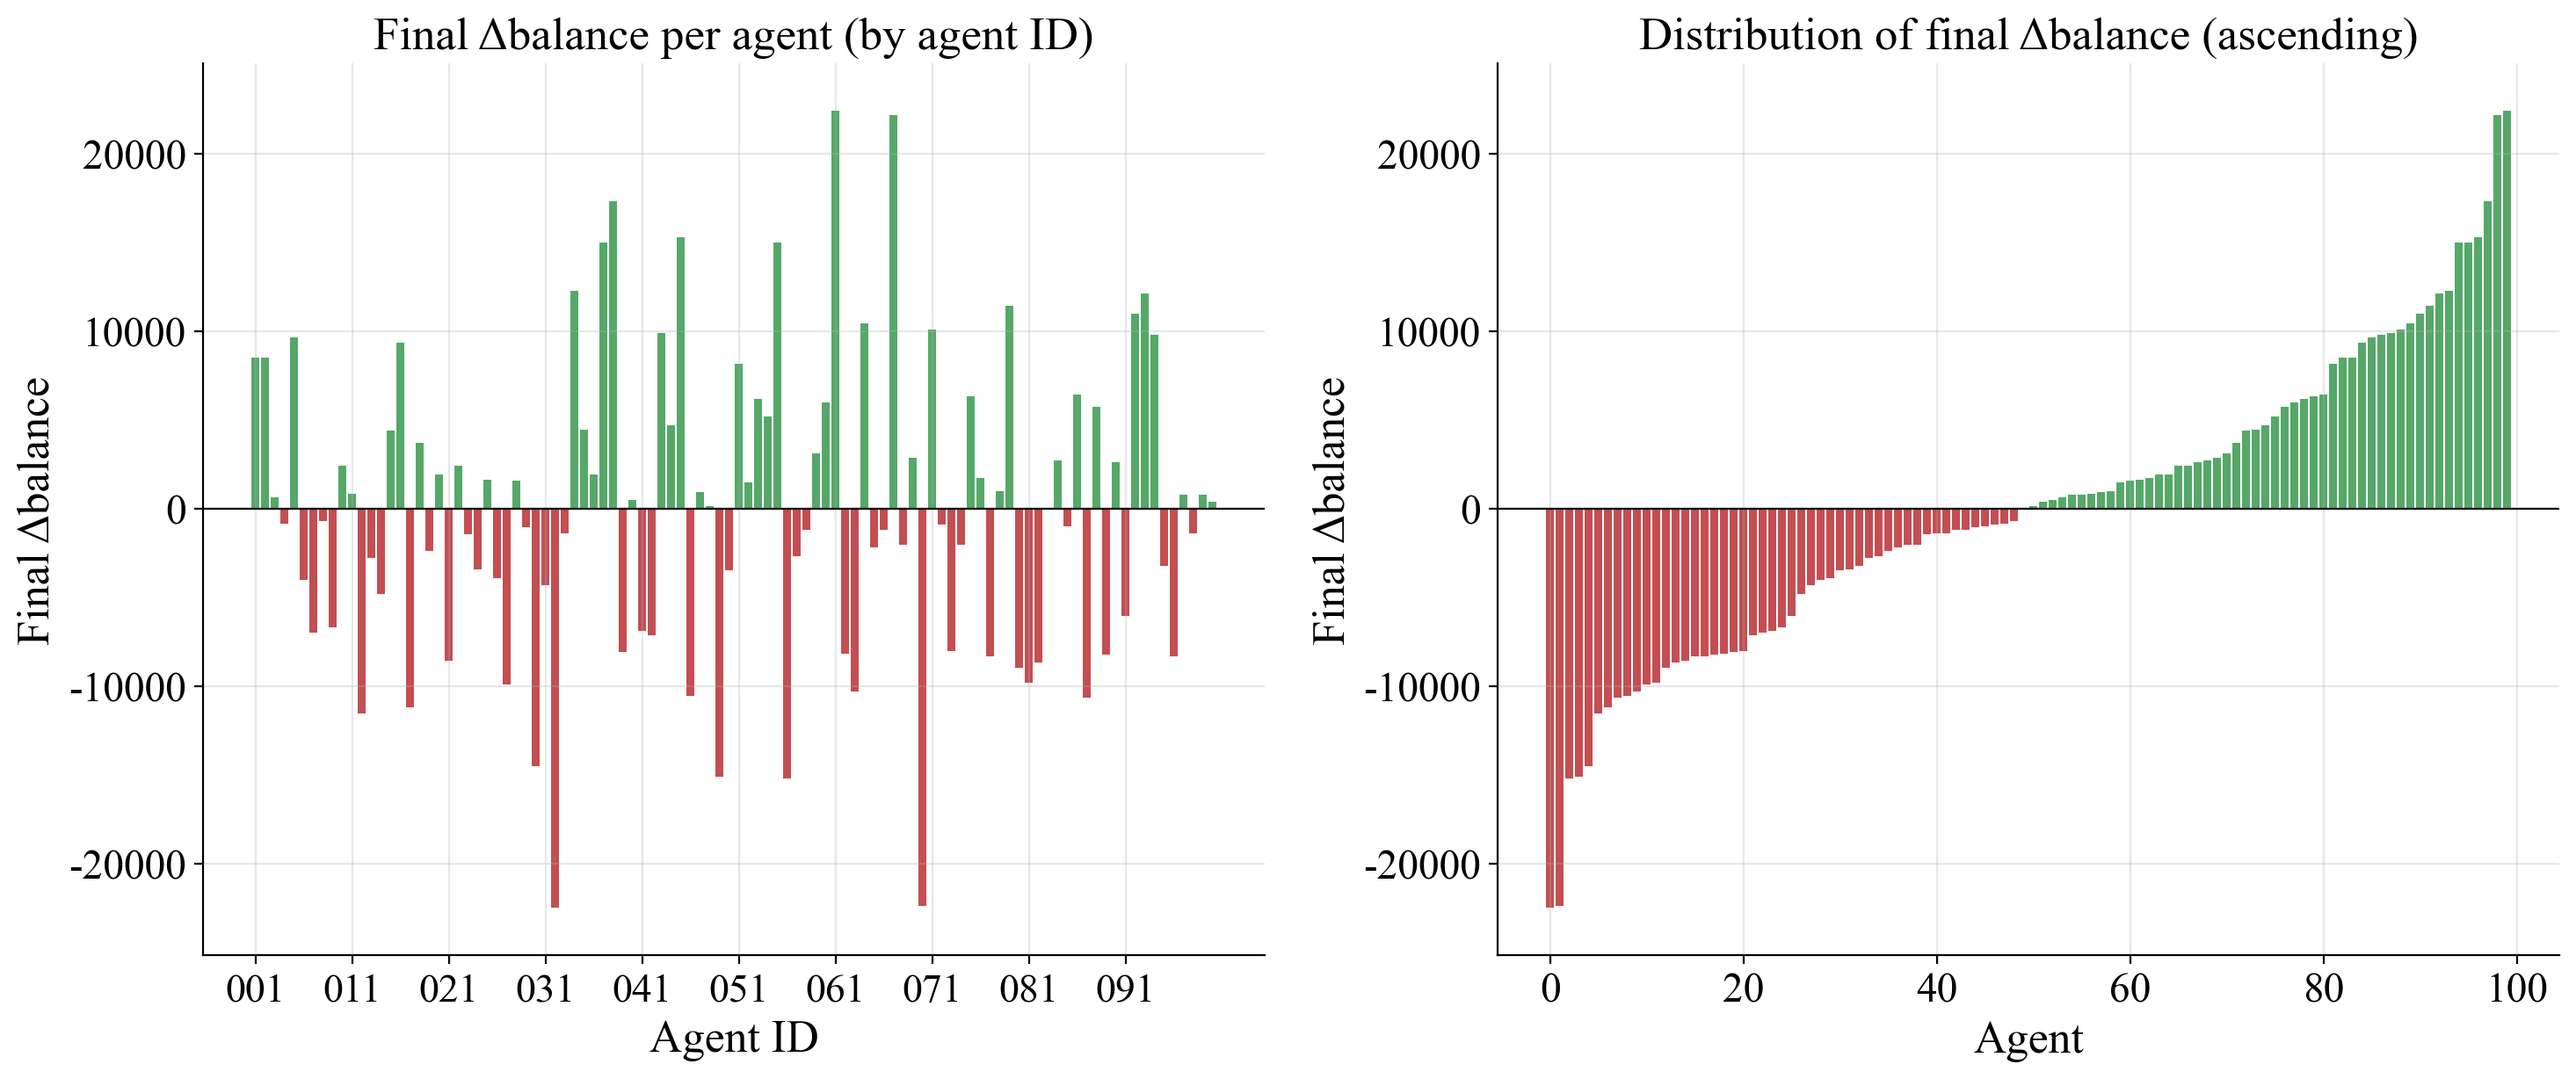
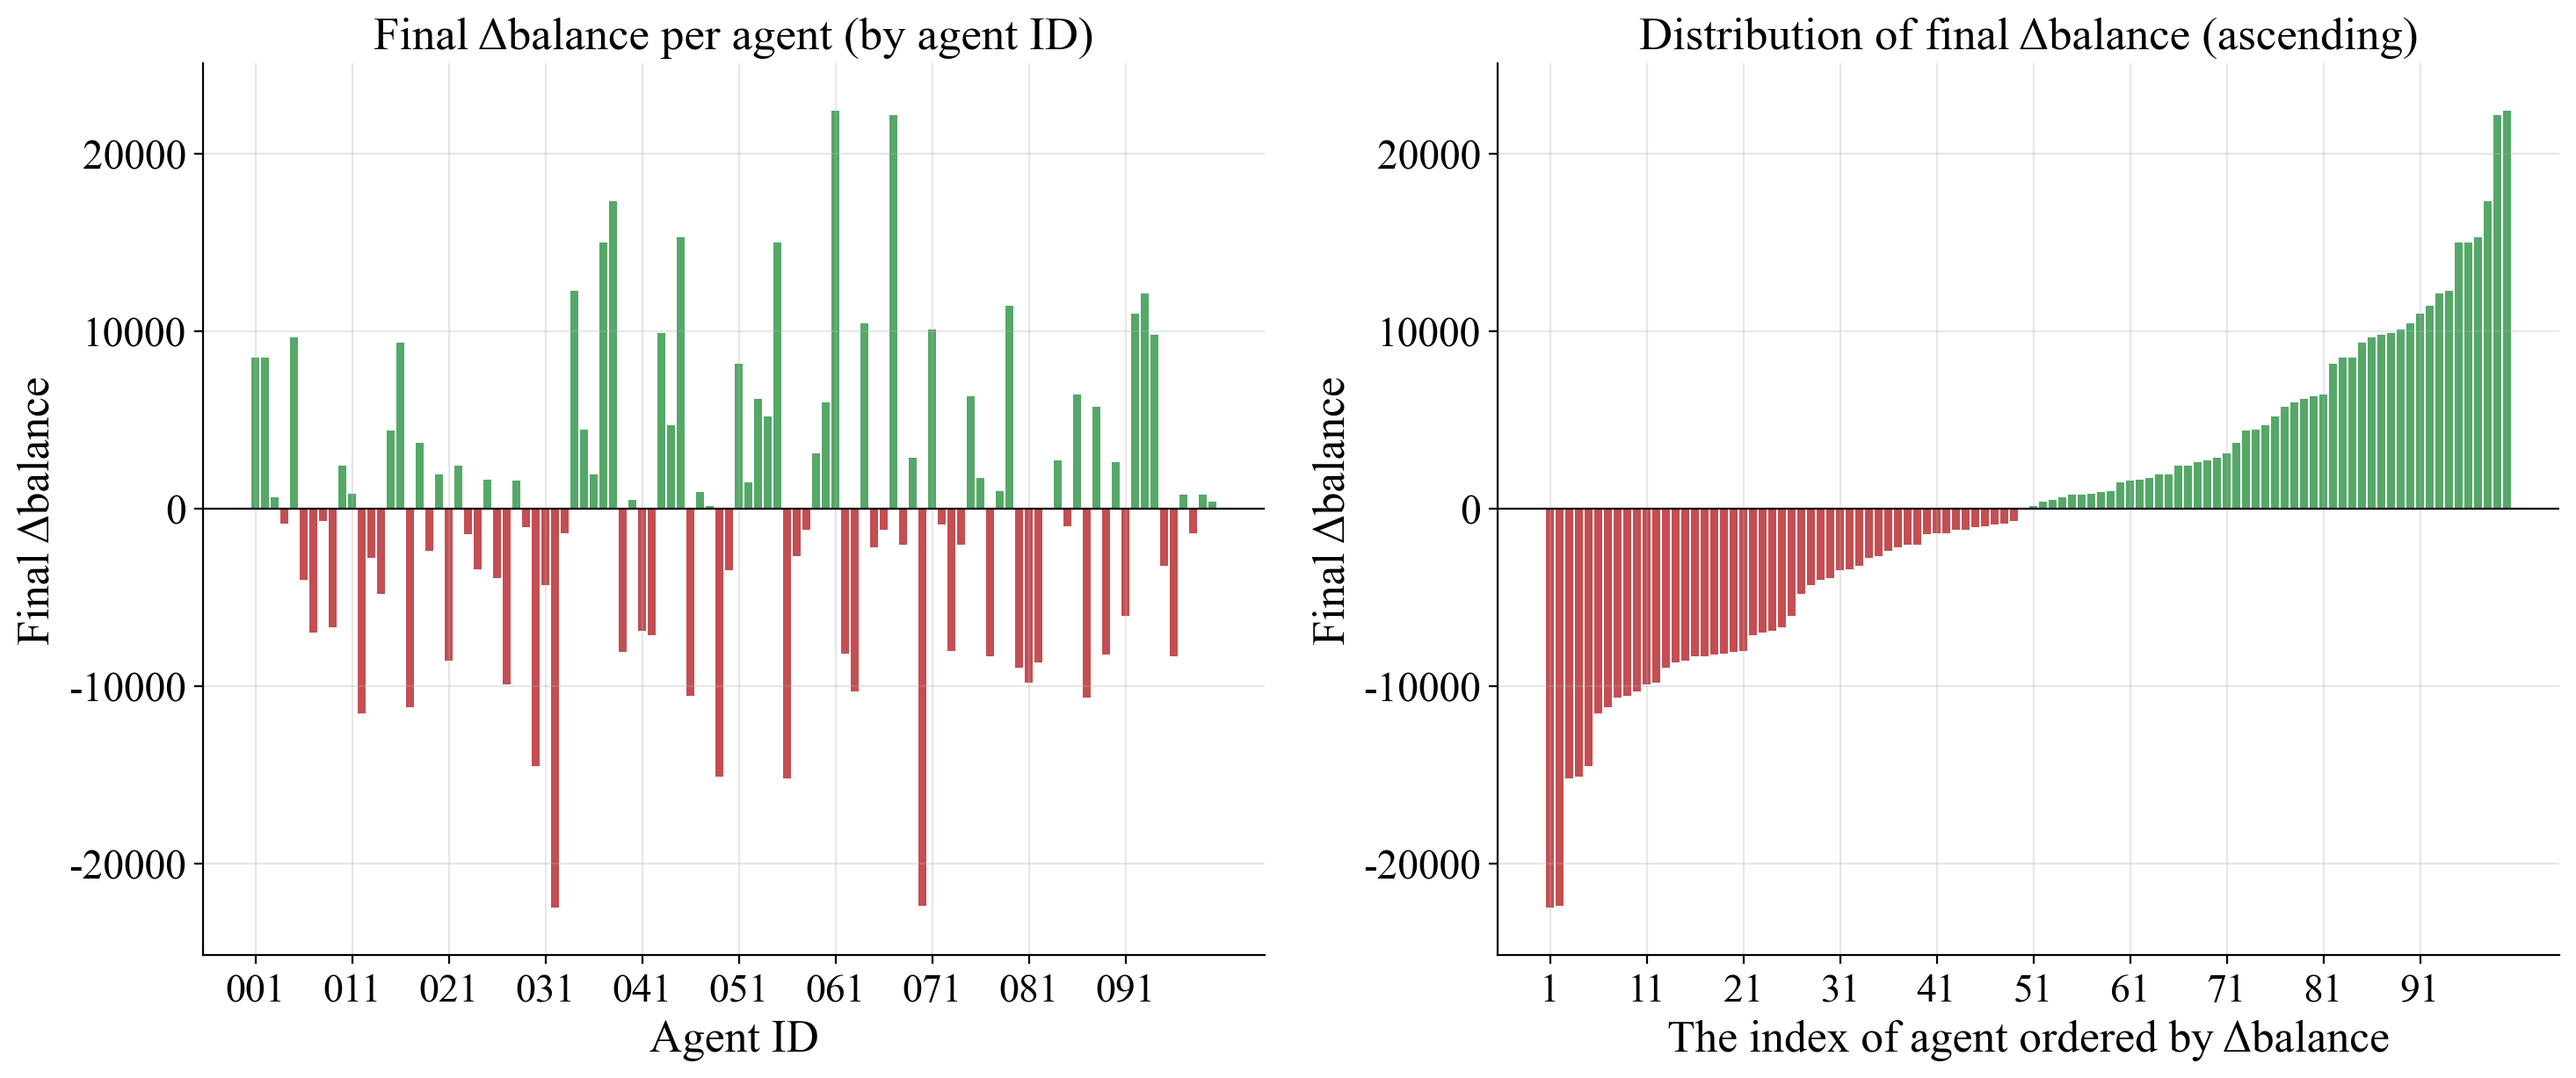
feat: polish figure wording and refresh README snapshots
- fig1: right panel x label 'The index of agent ordered by Δbalance',
  ticks 1..91 matching the left panel
- fig2: title 'Agent balance changes over the global transaction index'
- fig3: title 'Δbalance aligned by normalized transaction processing
  progress', x label 'The progress of transaction processing'
- fig4: drop block-boundary dashed lines/stars and the title note;
  in-figure title 'the change of balance'
- gallery: fig4 heading 'Agent 余额变化的组图 / Grouped Agent Balance
  Changes', fig3 heading aligned; lightbox-friendly captions
- refresh example PNG snapshots in docs/figures/pngs and sync README

diff --git a/figs/python_code/plot_agent_balance.py b/figs/python_code/plot_agent_balance.py
@@ -100,12 +100,6 @@ def load_agent(path: Path) -> pd.DataFrame:
     return df
 
 
-def block_boundary_idx(df: pd.DataFrame) -> int:
-    """排序后首个(最低)区块的交易数量, 即第一区块→后续区块的分界下标。"""
-    first = int(df["block_height"].iloc[0])
-    return int((df["block_height"] == first).sum())
-
-
 def main():
     parser = argparse.ArgumentParser(description="绘制 agent 余额变化系列图")
     parser.add_argument("--data-dir", type=Path, default=None,
@@ -154,8 +148,10 @@ def main():
     ax_bar_sorted.axhline(0, color="k", lw=0.8)
     ax_bar_sorted.set_title("Distribution of final Δbalance (ascending)",
                             fontsize=19)
-    ax_bar_sorted.set_xlabel("Agent")
+    ax_bar_sorted.set_xlabel("The index of agent ordered by Δbalance")
     ax_bar_sorted.set_ylabel("Final Δbalance")
+    ax_bar_sorted.set_xticks(id_ticks)
+    ax_bar_sorted.set_xticklabels([str(i + 1) for i in id_ticks], fontsize=16.5)
 
     # 两个柱状面板统一 y 轴范围, 便于对比
     pad = (finals.max() - finals.min()) * 0.06
@@ -180,16 +176,8 @@ def main():
             color = group_cmap(i)
             ax.plot(np.arange(len(d)), d["delta"], color=color, lw=1.1,
                     marker="o", ms=2, label=d["agent"].iloc[0])
-            # 该 agent 所在分片链上的区块分界线(颜色与轨迹一致) + 分界点星标
-            b = block_boundary_idx(d)
-            if 0 < b < len(d):
-                ax.axvline(b - 0.5, color=color, ls="--", lw=1, alpha=0.45)
-                ax.plot([b - 0.5], [d["delta"].iloc[b - 1]], marker="*",
-                        ms=11, color=color, mec="white", mew=0.5, zorder=5)
         ax.axhline(0, color="k", lw=0.6, alpha=0.5)
-        ax.set_title(f"Agents {first_no}–{last_no}: balance change\n"
-                     f"(dashed line / star = block {hs_all[0]}→{hs_all[1]} "
-                     f"boundary of the agent's shard)", fontsize=30)
+        ax.set_title(f"Agents {first_no}–{last_no}: the change of balance", fontsize=30)
         ax.set_xlabel(X_LABEL, fontsize=27.5)
         ax.set_ylabel(Y_LABEL, fontsize=27.5)
         ax.tick_params(labelsize=25)
@@ -216,10 +204,10 @@ def main():
     ax.annotate(f"Endpoint mean = {mean_curve[-1]:+.0f}", xy=(1.0, mean_curve[-1]),
                 xytext=(-12, 16), textcoords="offset points", fontsize=17.5,
                 ha="right", color="#C44E52")
-    ax.set_xlabel("Transaction progress")
+    ax.set_xlabel("The progress of transaction processing")
     ax.set_ylabel(Y_LABEL)
-    ax.set_title("Balance change aligned by normalized transaction progress",
-                 fontsize=20)
+    ax.set_title("Δbalance aligned by normalized transaction processing "
+                 "progress", fontsize=20)
     ax.legend(loc="upper left")
     fig.tight_layout()
     fig.savefig(fig_dir / "fig3_normalized_progress.png")
@@ -281,8 +269,8 @@ def main():
     ax.axhline(0, color="k", lw=0.6, alpha=0.5)
     ax.set_xlabel("Global transaction index")
     ax.set_ylabel(Y_LABEL)
-    ax.set_title("Distribution of balance changes across agents "
-                 "by global transaction order", fontsize=20)
+    ax.set_title("Agent balance changes over the global transaction index",
+                 fontsize=20)
     ax.legend(loc="upper left")
     fig.tight_layout()
     fig.savefig(fig_dir / "fig2_global_tx_order.png")

diff --git a/figs/python_code/build_fig_html.py b/figs/python_code/build_fig_html.py
@@ -33,17 +33,17 @@ FIG1_ENTRY = ("fig1_all_agents_overview",
               "Fig. 1 · Overview of All Agents")
 
 # 分组轨迹网格(文件名前缀 fig4_*): 展示在页面最后, 编号为图 4
-GROUPS_HEAD_ZH = "图 4 · 分组余额轨迹（每 5 个 Agent 一组）"
-GROUPS_HEAD_EN = "Fig. 4 · Grouped Balance Trajectories (5 Agents per Subfig)"
+GROUPS_HEAD_ZH = "图 4 · Agent 余额变化的组图（每 5 个 Agent 一组）"
+GROUPS_HEAD_EN = "Fig. 4 · Grouped Agent Balance Changes (5 Agents per Subfig)"
 
 # 其余单幅图: 展示在图 1(总览)之后、分组网格之前, 按展示位置编号
 TAIL_SINGLES = [
     ("fig2_global_tx_order",
-     "图 2 · 按全局交易顺序统计的全体 Agent 余额分布",
-     "Fig. 2 · Balance Distribution of All Agents by Global Transaction Order"),
+     "图 2 · 全局交易序号下的 Agent 余额变化",
+     "Fig. 2 · Agent Balance Changes over the Global Transaction Index"),
     ("fig3_normalized_progress",
-     "图 3 · 按交易进度归一化对齐的余额变化",
-     "Fig. 3 · Balance Change Aligned by Normalized Transaction Progress"),
+     "图 3 · 按交易处理进度归一化对齐的余额变化",
+     "Fig. 3 · The Change of Balance Aligned by Normalized Transaction Processing Progress"),
 ]
 
 CSS = """
